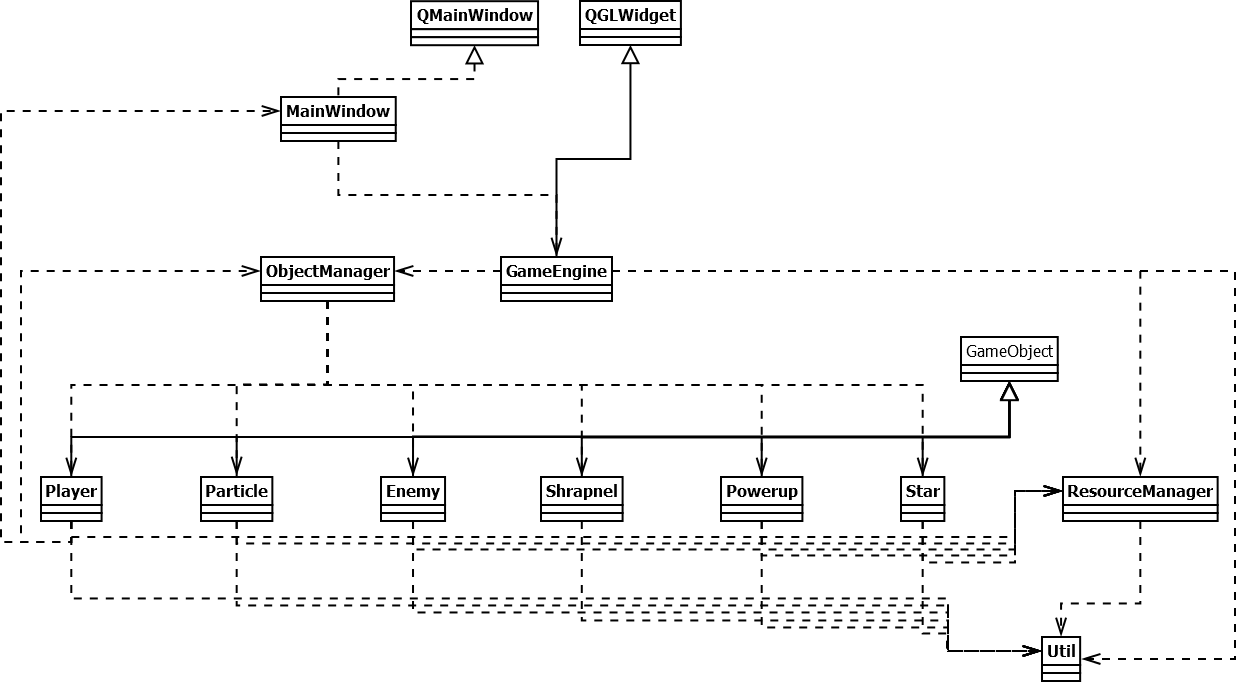
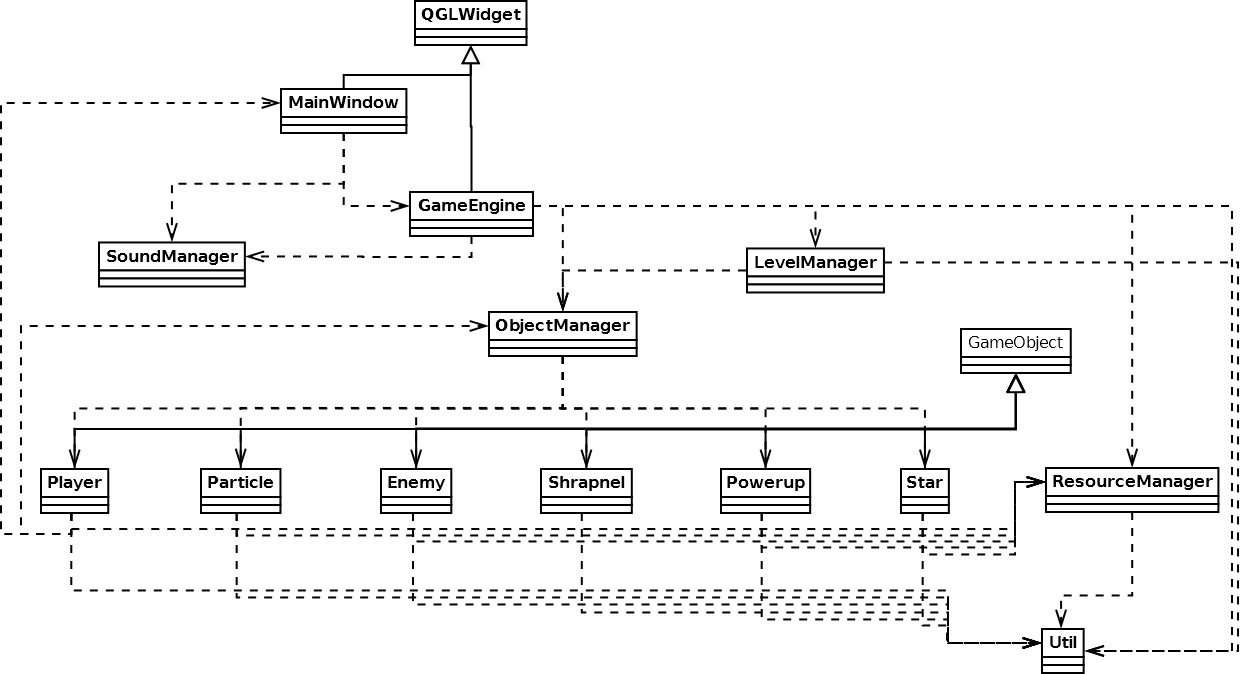
Updated the architecture docs Removed the gross hack from the sound manager Removed the need to update the sound manager Fixed credits display (what was I thinking?)

diff --git a/ParticleStorm/soundmanager.cpp b/ParticleStorm/soundmanager.cpp
@@ -11,19 +11,19 @@ SoundManager::SoundManager(){
         return;
     }
 
-    //define the sound lengths
-    sound_times = new std::vector<double>();
-    sound_times->push_back(109);
-    sound_times->push_back(34);
-
-    currSoundTime = 0;
     currSound = NONE;
 
     //load the music
     sounds = new std::vector<QSound*>;
+
     #ifndef Q_WS_X11
-    sounds->push_back(new QSound("../ParticleStorm/Resources/chaosinvaders-loop.wav"));
-    sounds->push_back(new QSound("../ParticleStorm/Resources/base-loop.wav"));
+    const char* sound_files[] = {
+        "../ParticleStorm/Resources/chaosinvaders-loop.wav",
+        "../ParticleStorm/Resources/base-loop.wav"
+    };
+    for (unsigned int i = 0; i<sizeof(sound_files)/sizeof(char*); i++){
+        sounds->push_back(new QSound(sound_files[i]));
+    }
     #endif
 
     instance = this;
@@ -33,26 +33,9 @@ SoundManager::~SoundManager(){
     //unload sounds
     while(!sounds->empty()) delete sounds->back(), sounds->pop_back();
     delete sounds;
-    delete sound_times;
 }
 
-void SoundManager::update(double deltaTime){
-    #ifdef Q_WS_X11
-    return;
-    #endif
-    //check if playing anything
-    if (currSound == NONE) return;
-
-    //playing current sound
-    currSoundTime -=deltaTime;
-    //loop it if it's done playing
-    if (currSoundTime <= 0){
-        sounds->at(currSound)->play();
-        currSoundTime = sound_times->at(currSound);
-    }
-}
-
-void SoundManager::playSound(Sound s){
+void SoundManager::playSound(Sound s, int numLoops){
     #ifdef Q_WS_X11
     return;
     #endif
@@ -60,12 +43,11 @@ void SoundManager::playSound(Sound s){
     if (s == NONE && currSound != NONE){
         sounds->at(currSound)->stop();
         currSound = NONE;
-        currSoundTime = 0;
     }
     else if (s != currSound){
         //changing sounds
         currSound = s;
-        currSoundTime = sound_times->at(s);
+        sounds->at(currSound)->setLoops(numLoops);
         sounds->at(currSound)->play();
     }
 }

diff --git a/ParticleStorm/mainwindow.cpp b/ParticleStorm/mainwindow.cpp
@@ -254,9 +254,6 @@ void MainWindow::timerEvent(QTimerEvent *){
 void MainWindow::update(){
     double deltaTime = timer->restart()/(float)1000;
 
-    //update the sound manager
-    soundManager->update(deltaTime);
-
     //get mouse position
     currMousePos = mapFromGlobal(QCursor::pos());
     currMousePos.setY(MAX_Y - currMousePos.y());
@@ -323,14 +320,18 @@ void MainWindow::paintGL(){
         //draw credits
         Util::drawString("CREDITS", MAX_X / 2, MAX_Y - 100, fontTex, true, false, 3, 3);
 
-        //could for loop it, but would have to define the array to iterate over
-        Util::drawString("DANIEL BAMBRICK..RECORD KEEPER", MAX_X/2, MAX_Y - 175 - 0 * 55, fontTex, true);
-        Util::drawString("MARK DION............AI MASTER", MAX_X/2, MAX_Y - 175 - 1 * 55, fontTex, true);
-        Util::drawString("JULIA GREIG............MANAGER", MAX_X/2, MAX_Y - 175 - 2 * 55, fontTex, true);
-        Util::drawString("DONALD KESTER...LEVEL DESIGNER", MAX_X/2, MAX_Y - 175 - 3 * 55, fontTex, true);
-        Util::drawString("ANDREW MCMULLEN....CODE MONKEY", MAX_X/2, MAX_Y - 175 - 4 * 55, fontTex, true);
-        Util::drawString("CAREY METCALFE.......ARCHITECT", MAX_X/2, MAX_Y - 175 - 5 * 55, fontTex, true);
-        Util::drawString("LUKE WALKER...ABILITY DESIGNER", MAX_X/2, MAX_Y - 175 - 6 * 55, fontTex, true);
+        const char* credits[] = {
+            "DANIEL BAMBRICK..RECORD KEEPER",
+            "MARK DION............AI MASTER",
+            "JULIA GREIG............MANAGER",
+            "DONALD KESTER...LEVEL DESIGNER",
+            "ANDREW MCMULLEN....CODE MONKEY",
+            "CAREY METCALFE.......ARCHITECT",
+            "LUKE WALKER...ABILITY DESIGNER",
+        };
+        for (unsigned int i = 0; i<sizeof(credits)/sizeof(char*); i++){
+            Util::drawString(credits[i], MAX_X/2, MAX_Y - 175 - i * 55, fontTex, true);
+        }
 
         //buttons
         Util::drawString("HIGHSCORES", 0, MAX_Y - 15, fontTex);

diff --git a/ParticleStorm/soundmanager.h b/ParticleStorm/soundmanager.h
@@ -9,25 +9,21 @@ public:
     SoundManager();
     ~SoundManager();
 
+    //make sure this matches with the sound_files array in the constructor
     enum Sound{
         GAME,
         TITLE,
-        NONE
+        NONE //must be last
     };
 
     static SoundManager* getInstance(){return instance;}
 
-    void update(double deltaTime);
-    void playSound(Sound s);
+    void playSound(Sound s, int numLoops = -1);
     void stopSound(){playSound(NONE);}
 
 private:
-    //sound management
-    std::vector<double> *sound_times;
-
     //holds the sounds
     std::vector<QSound*> *sounds;
-    double currSoundTime;
     Sound currSound;
 
     //self reference

diff --git a/ParticleStorm/gameengine.cpp b/ParticleStorm/gameengine.cpp
@@ -280,9 +280,6 @@ void GameEngine::drawHUD(){
 //update game logic - automatically called by timer
 void GameEngine::update(double deltaTime){
 
-    //play ingame music
-    SoundManager::getInstance()->update(deltaTime);
-
     //FPS monitoring
     framecnt++;
     secSinceFrameInterval += deltaTime;
